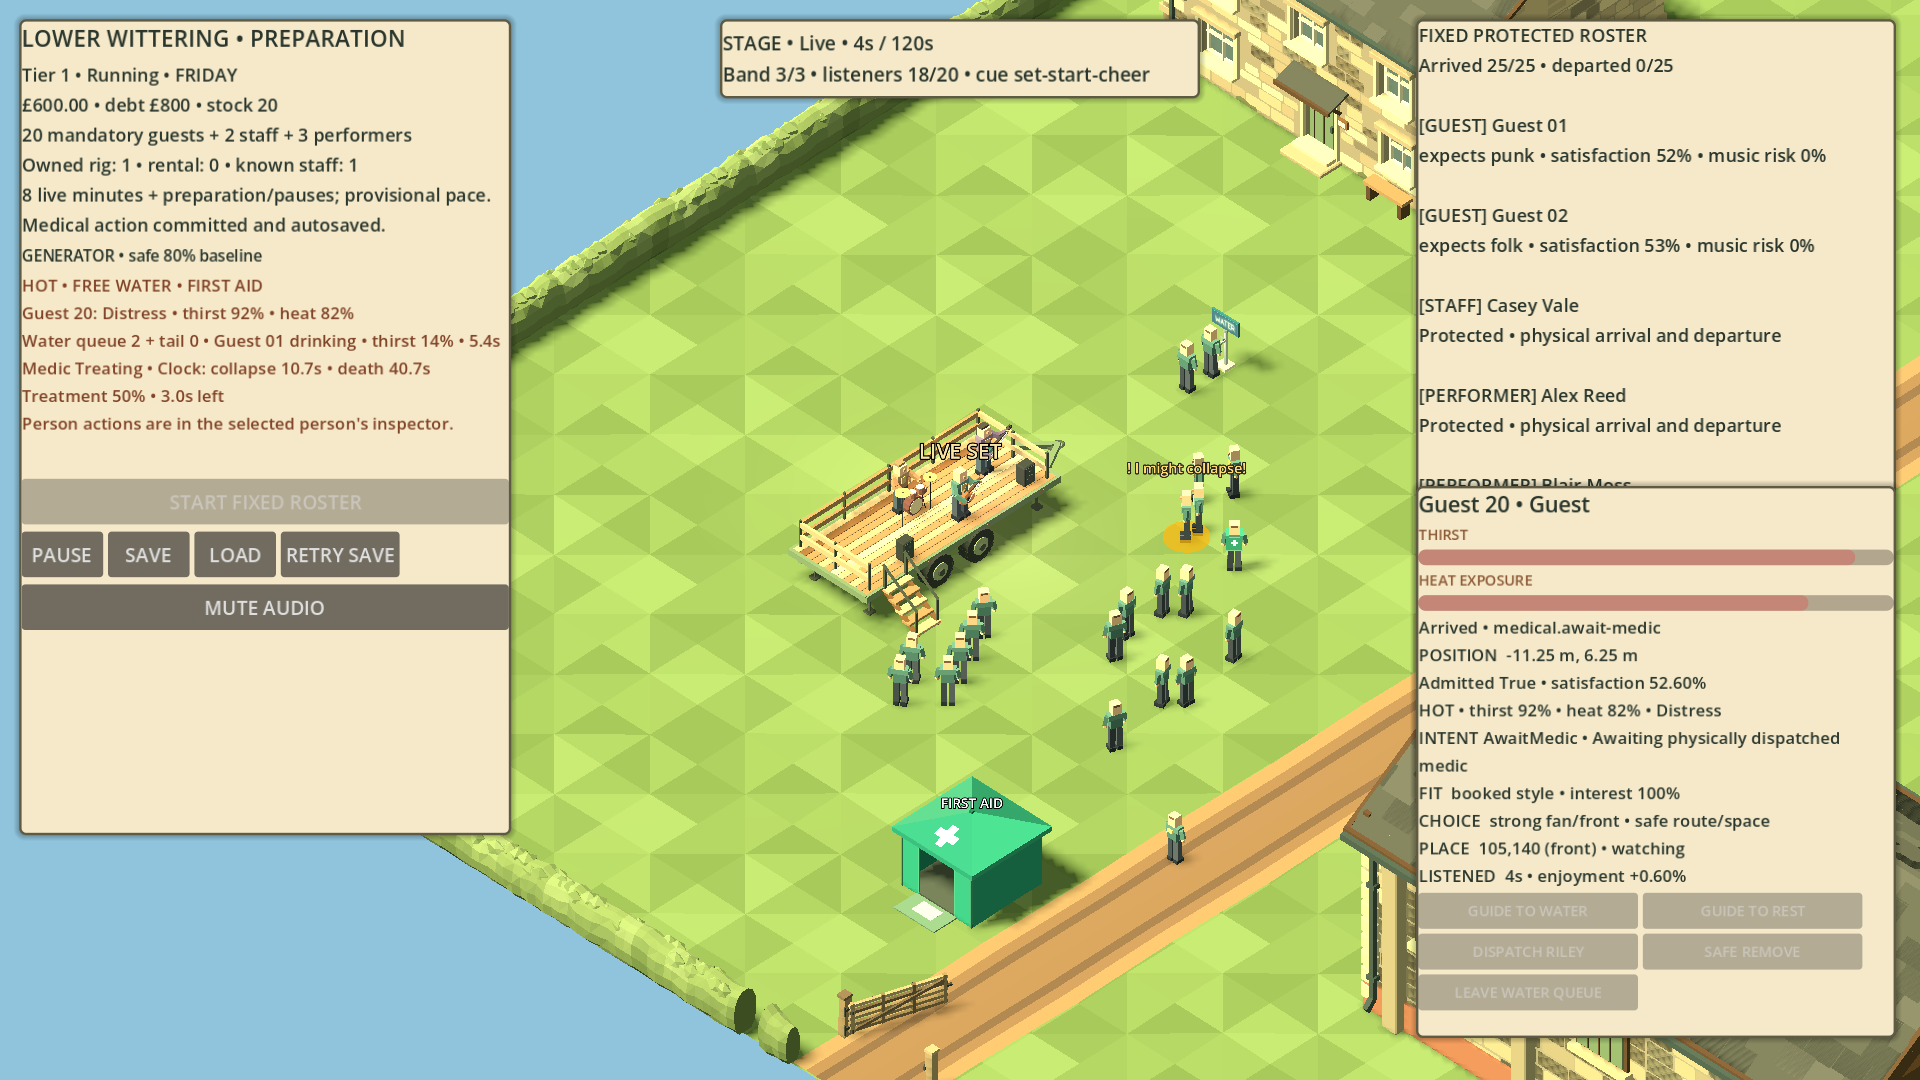
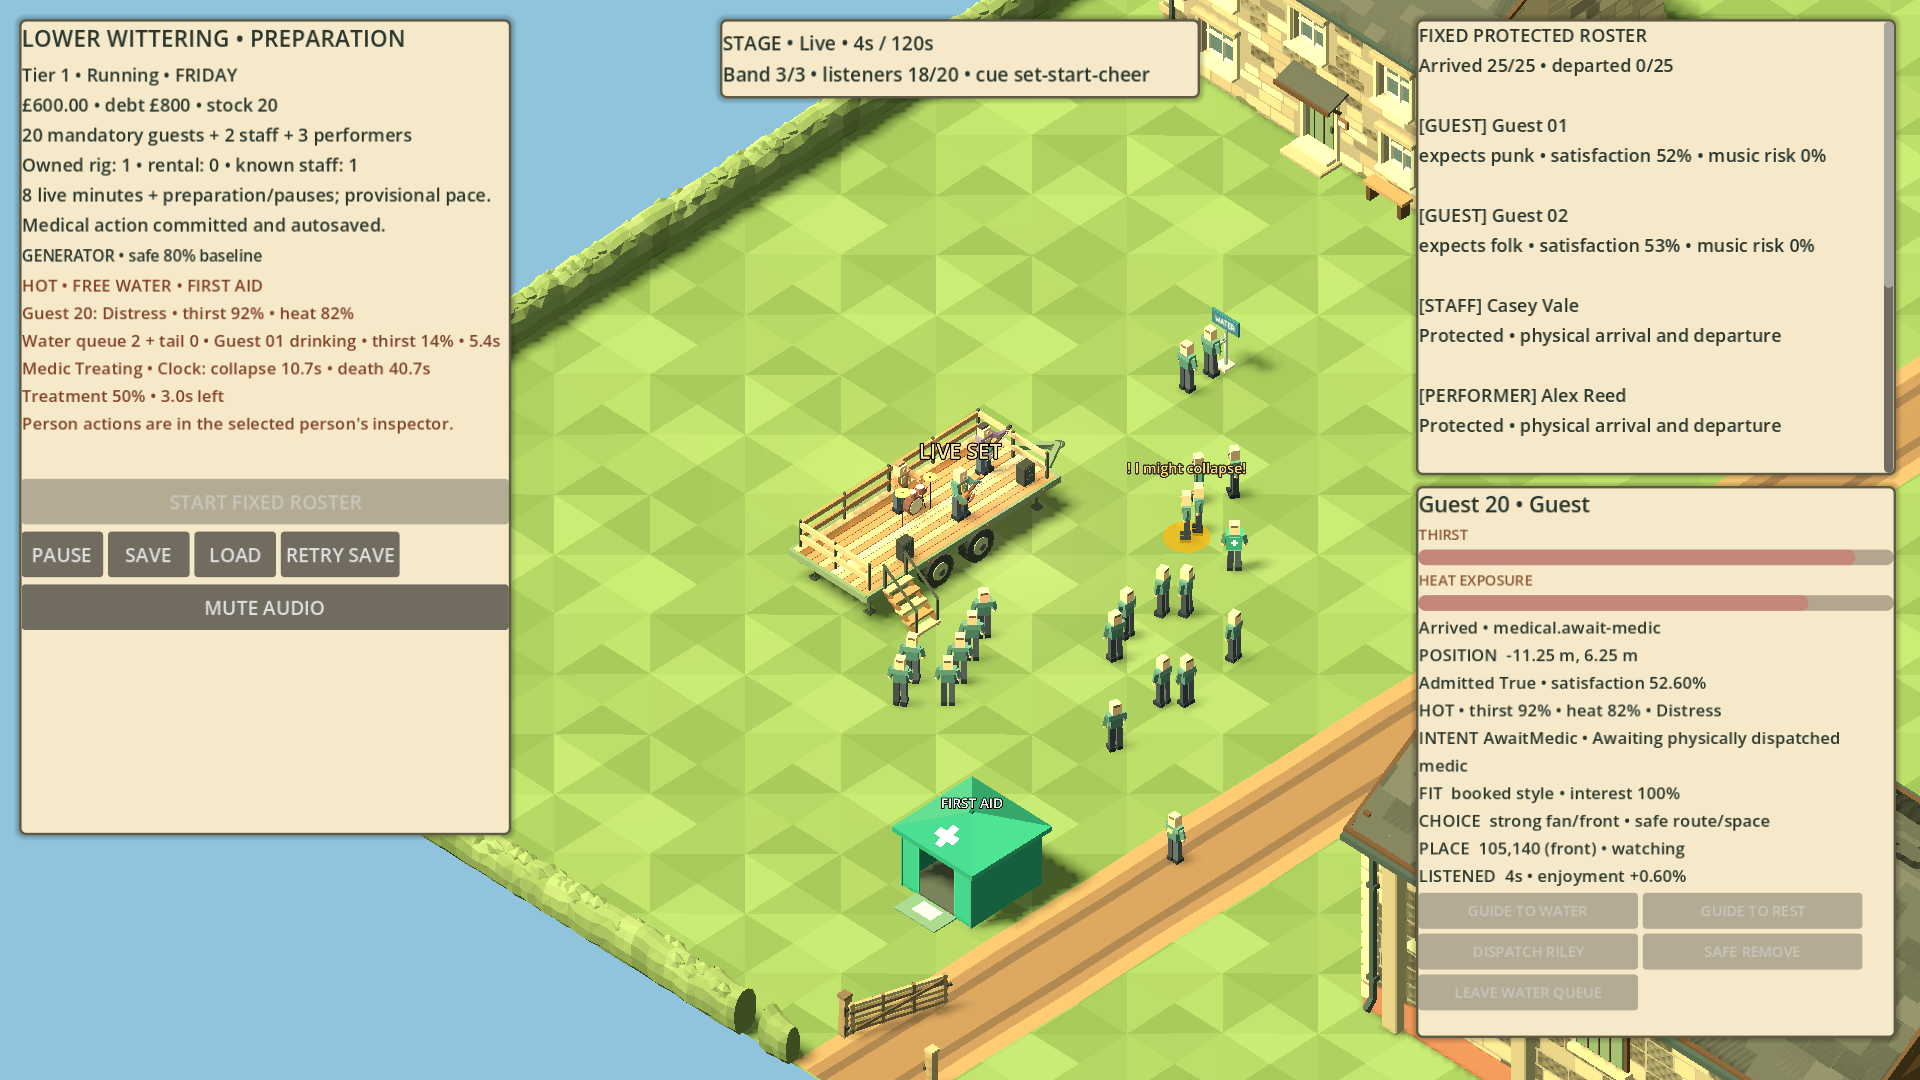
Constrain preparation roster above medical inspector

Changed region(s): [[0.7188, 0.0306, 1.0, 0.4583], [0.5938, 0.6111, 0.625, 0.6417]]

diff --git a/game/Main.Preparation.cs b/game/Main.Preparation.cs
@@ -13,6 +13,7 @@ public partial class Main
 {
     private Label _preparationSummary = null!;
     private Label _preparationPeople = null!;
+    private ScrollContainer? _preparationRosterScroll;
     private readonly Dictionary<string, Button> _offerButtons = [];
     private Button _preparationStart = null!;
     private string _preparationMessage = "Choose one act and one worker. Equipment and stock are optional.";
@@ -70,8 +71,11 @@ public partial class Main
         controls.AddChild(ButtonText("RETRY SAVE", () => { _preparationSaveBlocked = false; _preparationMessage = "Retrying pending boundary."; RefreshPreparationHud(); }));
         var rosterPanel = new PanelContainer { Position = new Vector2(rightPanelX, 16), Size = new Vector2(400, 380) };
         rosterPanel.AddThemeStyleboxOverride("panel", PaperStyle(new Color("f5e9c9"))); layer.AddChild(rosterPanel);
+        _preparationRosterScroll = new ScrollContainer { CustomMinimumSize = new Vector2(380, 360) };
+        rosterPanel.AddChild(_preparationRosterScroll);
         _preparationPeople = LabelText("", 15, ink); _preparationPeople.AutowrapMode = TextServer.AutowrapMode.WordSmart;
-        _preparationPeople.CustomMinimumSize = new Vector2(380, 340); rosterPanel.AddChild(_preparationPeople);
+        _preparationPeople.CustomMinimumSize = new Vector2(360, 0);
+        _preparationRosterScroll.AddChild(_preparationPeople);
         var inspector = new PanelContainer { Position = new Vector2(rightPanelX, _session.CaptureMedical() is not null ? 405 : _session.CaptureEquipment() is null ? 440 : 525),
             Size = new Vector2(400, _session.CaptureMedical() is not null ? 460 : _session.CaptureEquipment() is null ? 250 : 165) };
         inspector.AddThemeStyleboxOverride("panel", PaperStyle(new Color("f5e9c9"))); layer.AddChild(inspector);

diff --git a/game/Main.Medical.cs b/game/Main.Medical.cs
@@ -439,9 +439,18 @@ public partial class Main
                 _foundationPresentation.Reset(_session.CaptureObservation()); _foundationClock.ResetBoundary();
                 RefreshPreparationHud();
             }
+            if (_medicalCaptureFrame == 17)
+                GetViewport().GetTexture().GetImage().SavePng(Path.Combine(_medicalCaptureDirectory, "collapsed-medic-travelling.png"));
+            if (_medicalCaptureFrame == 18)
+            {
+                var rosterBar = _preparationRosterScroll!.GetVScrollBar();
+                if (rosterBar.MaxValue <= rosterBar.Page)
+                    throw new InvalidOperationException("Roster did not expose its overflowing entries by scrolling.");
+                _preparationRosterScroll.ScrollVertical = (int)(rosterBar.MaxValue - rosterBar.Page);
+            }
             if (_medicalCaptureFrame == 19)
             {
-                GetViewport().GetTexture().GetImage().SavePng(Path.Combine(_medicalCaptureDirectory, "collapsed-medic-travelling.png"));
+                GetViewport().GetTexture().GetImage().SavePng(Path.Combine(_medicalCaptureDirectory, "roster-bottom.png"));
                 GD.Print($"MEDICAL_UI_STATE selected={medical.AtRiskGuestId} intent={_session.CaptureMedical()!.Needs.Single(item => item.AgentId == medical.AtRiskGuestId).Intent} response={_session.CaptureMedical()!.ResponseStage}");
             }
             if (_medicalCaptureFrame == 20)

diff --git a/reports/evidence/R0.03-ui-state/integration.md b/reports/evidence/R0.03-ui-state/integration.md
@@ -16,3 +16,9 @@ Four new tests cover collapsed and critical Guest 20 and performer dispatch, imm
 The existing `--capture-medical prevent` route was rerun with explicit Guest 20 selection before its button action; it ended `Treated`, zero casualties, and rendered [treatment](prevent/treatment.png) and [outcome](prevent/outcome.png) frames. This confirms the removal of implicit targeting did not break that fixture.
 
[1 lines of base64/hex data omitted]
+
+## Review repair: bounded roster above inspector
+
+Review of the first implementation found that the roster label drew beyond its 380-pixel panel into the person inspector, clipping Blair Moss's name/status. The roster preview now lives inside a bounded vertical `ScrollContainer`; the medical person inspector retains its size and all five actions. The UI fixture asserts overflow is scrollable and scrolls to the bottom. [Top roster with Alex](performer-inspector.png) and [bottom roster with Blair, Kit and Riley beside Guest 20's readable inspector](roster-bottom.png) were rendered and visually checked. The revised [collapsed-travel](collapsed-medic-travelling.png), [completed-treatment](treated-green-bars.png), facility and prevention captures also remain readable; the prevention route again reached `Treated` with zero casualties.
+
[1 lines of base64/hex data omitted]

diff --git a/briefs/results/R0.03.md b/briefs/results/R0.03.md
@@ -82,3 +82,5 @@ Independent review found a silent thirst-threshold crossing could consume the re
 ## Selected-person UI and collapsed-dispatch follow-up, 25 September 2026
 
 The [UI/state implementation and rendered evidence](../../reports/evidence/R0.03-ui-state/integration.md) preserve collapsed intent and horizontal pose through medic travel/treatment for Guest 20 and performers, while moving all five person-targeted actions from the global HOT panel to the selected person's inspector. GUIDE TO WATER is the new label; both need bars grade green/blue/red without changing their values. Four new collapse/critical dispatch-and-restore cases passed, the focused set passed **62/62**, and a fresh isolated Windows export passed startup markers. The wider unfiltered run passed 181/182 with an unrelated, independently reproduced diagonal traffic-kernel test failure. Independent re-review and human exported playtest remain pending; rejected first-aid v1 remains untouched.
+
+Review found the shortened gap between right-side panels exposed an overflowing roster label, clipping Blair Moss's entry into the person inspector. A [bounded scrollable-roster repair](../../reports/evidence/R0.03-ui-state/integration.md#review-repair-bounded-roster-above-inspector) preserves inspector size and actions while making the roster preview's lower entries accessible. Top/bottom rendered frames were inspected, **62/62** focused tests passed again, and a new isolated Windows export passed startup. The unrelated traffic-kernel failure and human exported playtest remain open.
